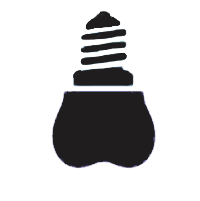
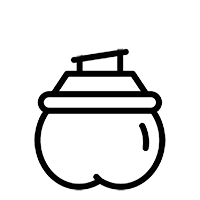
Posicionamento dos ícones nos dentes.

diff --git a/static/css/odontograma.css b/static/css/odontograma.css
@@ -616,43 +616,43 @@ PERMANENTES SUPERIORES
 
 .dente-11 .posicao-raiz{ top:28px; left:0px; }
 .dente-11 .posicao-centro{ top:42px; left:1px; }
-.dente-11 .posicao-coroa{ top:54px; left:0px; }
+.dente-11 .posicao-coroa{ top:52px; left:-1px; }
 .dente-11 .posicao-oclusal{ top:12px; left:5px; }
 
 .dente-12 .posicao-raiz{ top:30px; left:-1px; }
 .dente-12 .posicao-centro{ top:42px; left:0px; }
-.dente-12 .posicao-coroa{ top:54px; left:0px; }
+.dente-12 .posicao-coroa{ top:52px; left:0px; }
 .dente-12 .posicao-oclusal{ top:12px; left:5px; }
 
-.dente-13 .posicao-raiz{ top:30px; left:5px; }
-.dente-13 .posicao-centro{ top:42px; left:0px; }
-.dente-13 .posicao-coroa{ top:60px; left:6px; }
-.dente-13 .posicao-oclusal{ top:12px; left:7px; }
+.dente-13 .posicao-raiz{ top:32px; left:-1px; }
+.dente-13 .posicao-centro{ top:56px; left:-1px; }
+.dente-13 .posicao-coroa{ top:54px; left:-1px; }
+.dente-13 .posicao-oclusal{ top:48px; left:7px; }
 
-.dente-14 .posicao-raiz{ top:18px; left:1px; }
-.dente-14 .posicao-centro{ top:42px; left:1px; }
-.dente-14 .posicao-coroa{ top:58px; left:0px; }
+.dente-14 .posicao-raiz{ top:40px; left:-1px; }
+.dente-14 .posicao-centro{ top:48px; left:-1px; }
+.dente-14 .posicao-coroa{ top:56px; left:0px; }
 .dente-14 .posicao-oclusal{ top:12px; left:5px; }
 
-.dente-15 .posicao-raiz{ top:48px; left:2px; }
+.dente-15 .posicao-raiz{ top:40px; left:-1px; }
 .dente-15 .posicao-centro{ top:46px; left:1px; }
 .dente-15 .posicao-coroa{ top:58px; left:0px; }
-.dente-15 .posicao-oclusal{ top:12px; left:5px; }
+.dente-15 .posicao-oclusal{ top:2px; left:5px; }
 
-.dente-16 .posicao-raiz{ top:48px; left:-2px; }
+.dente-16 .posicao-raiz{ top:40px; left:-2px; }
 .dente-16 .posicao-centro{ top:48px; left:-2px; }
-.dente-16 .posicao-coroa{ top:58px; left:0px; }
+.dente-16 .posicao-coroa{ top:58px; left:-2px; }
 .dente-16 .posicao-oclusal{ top:12px; left:5px; }
 
-.dente-17 .posicao-raiz{ top:38px; left:0px; }
-.dente-17 .posicao-centro{ top:40px; left:0px; }
+.dente-17 .posicao-raiz{ top:42px; left:-1px; }
+.dente-17 .posicao-centro{ top:44px; left:0px; }
 .dente-17 .posicao-coroa{ top:58px; left:0px; }
 .dente-17 .posicao-oclusal{ top:12px; left:5px; }
 
-.dente-18 .posicao-raiz{ top:48px; left:-1px; }
+.dente-18 .posicao-raiz{ top:40px; left:1px; }
 .dente-18 .posicao-centro{ top:44px; left:-1px; }
-.dente-18 .posicao-coroa{ top:58px; left:2px; }
-.dente-18 .posicao-oclusal{ top:12px; left:5px; }
+.dente-18 .posicao-coroa{ top:50px; left:2px; }
+.dente-18 .posicao-oclusal{ top:8px; left:1px; }
 
 .dente-21 .posicao-raiz{ top:30px; left:1px; }
 .dente-21 .posicao-centro{ top:42px; left:2px; }

diff --git a/accounts/templates/accounts/odontograma.html b/accounts/templates/accounts/odontograma.html
@@ -64,7 +64,7 @@ LAYOUT
 <!-- =========================================
 PROCEDIMENTOS GERAIS
 ========================================= -->
-<h5 style="text-align: center; font-weight: bold;">Procedimentos Gerais</h5>
+<h6 style="text-align: center; font-weight: bold; font-size: 1.04rem;">Procedimentos Gerais</h6>
 <div class="procedimentos-gerais-wrapper">
     
 